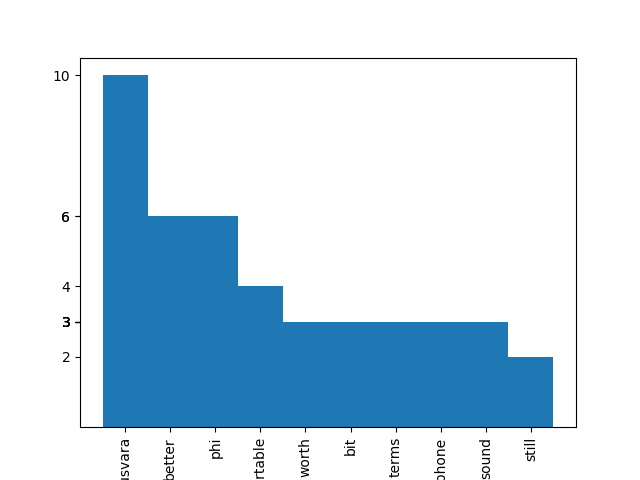
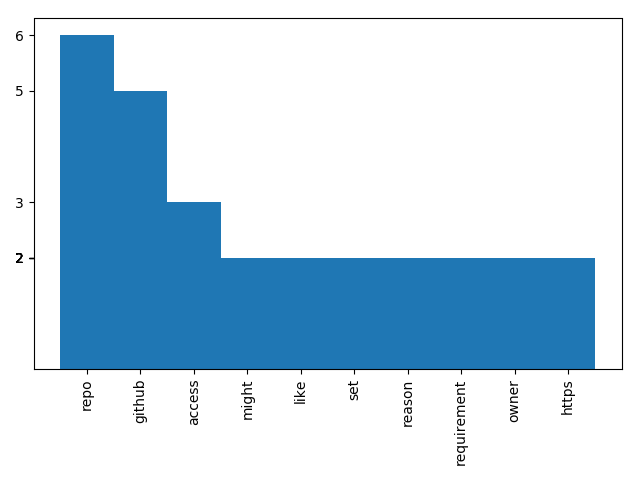
Fixed words on x axis from cutting out and added a word limit so that the graph does not distort from the word lengths

diff --git a/test.py b/test.py
@@ -50,7 +50,7 @@ def store_Comments(commentArray):
         for word in filteredArray:
             if word not in string.punctuation:
                 word = unicodedata.normalize('NFKD',word).encode('ascii', 'ignore')
-                if word != '':
+                if word != '' and  len(word) < 15 and word != "n't":
                     dictionary[word] = dictionary.get(word,0) + 1
 
 # A tolerance value on the number of words is needed so that the plot does not overpopulate
@@ -66,6 +66,7 @@ def plot_dict(numberOfWords):
     plt.xticks(xs,x)
     plt.xticks(rotation=90)
     plt.yticks(y)
+    plt.tight_layout()
     plt.savefig('netscore.png')
 
     plt.show()
